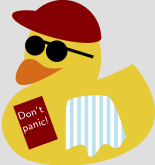
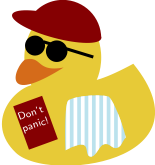
testing background colour for readme

diff --git a/README.md b/README.md
@@ -42,6 +42,7 @@ In case you would like to share some of your ducks with the community, I would b
 
 ### Duckifications
 
+<div style="background-color: #e6e6e6">
 <a href="./duckpond/Arthur.tex"><img src="./duckpond/Arthur.png" alt="Arthur Quack" title="Arthur Quack" height="64"></a>
 <a href="./duckpond/Ceasar.tex"><img src="./duckpond/Ceasar.png" alt="Gajus Quackus Ceasar" title="Gajus Quackus Ceasar" height="64"></a>
 <a href="./duckpond/Hilbert.tex"><img src="./duckpond/Hilbert.png" alt="Hilbert Duck" title="Hilbert Duck" height="64"></a>
@@ -59,22 +60,28 @@ In case you would like to share some of your ducks with the community, I would b
 <a href="./duckpond/StarDucks.tex"><img src="./duckpond/StarDucks.png" alt="Star Ducks" title="Star Ducks" height="64"></a>
 <a href="./duckpond/DuckWho.svg"><img src="./duckpond/DuckWho.png" alt="Duck Who" title="Duck Who" height="64"></a>
 <a href="./duckpond/Phantom.svg"><img src="./duckpond/Phantom.png" alt="Phantom of the duckpond" title="Phantom of the duckpond" height="64"></a>
+</div>
 
 ### Ducks in Art
 
+<div style="background-color: #e6e6e6">
 <a href="./duckpond/MonaDuck.svg"><img src="./duckpond/MonaDuck.png" alt="Mona Duck" title="Mona Duck" height="64"></a>
 <a href="./duckpond/GirlWithPearlEarring.svg"><img src="./duckpond/GirlWithPearlEarring.png" alt="Duck with pearl earring" title="Duck with pearl earring" height="64"></a>
 <a href="./duckpond/PopArt.svg"><img src="./duckpond/PopArt.png" alt="Pop ArtArt" title="Pop Art" height="64"></a>
+</div>
 
 ### TeX.SE users
 
+<div style="background-color: #e6e6e6">
 <a href="./duckpond/CarLaTeX.tex"><img src="./duckpond/CarLaTeX.png" alt="CarLaTeX" title="CarLaTeX" height="64"></a>
 <a href="./duckpond/Paulo.tex"><img src="./duckpond/Paulo.png" alt="Paulo" title="Paulo" height="64"></a>
 <a href="./duckpond/Manooooh.tex"><img src="./duckpond/Manooooh.png" alt="Manooooh" title="Manooooh" height="64"></a>
 <a href="./duckpond/Samcarter.tex"><img src="./duckpond/Samcarter.png" alt="samcarter" title="samcarter" height="64"></a>
+</div>
 
 ### Professions and Occupation
 
+<div style="background-color: #e6e6e6">
 <a href="./duckpond/AirDuck.tex"><img src="./duckpond/AirDuck.png" alt="AirDuck" title="AirDuck" height="64"></a>
 <a href="./duckpond/AstroDuck.tex"><img src="./duckpond/AstroDuck.png" alt="Astro Duck" title="Astro Duck" height="64"></a>
 <a href="./duckpond/Chef.tex"><img src="./duckpond/Chef.png" alt="Chef Duck" title="Chef Duck" height="64"></a>
@@ -86,9 +93,11 @@ In case you would like to share some of your ducks with the community, I would b
 <a href="./duckpond/Ghost.tex"><img src="./duckpond/Ghost.png" alt="Ghost  Duck" title="Ghost  Duck" height="64"></a>
 <a href="./duckpond/Harlequin.tex"><img src="./duckpond/Harlequin.png" alt="Harlequin Duck" title="Harlequin Duck" height="64"></a>
 <a href="./duckpond/Jailbird.tex"><img src="./duckpond/Jailbird.png" alt="Jail Bird" title="Jail Bird" height="64"></a>
+</div>
 
 ### Animals and Beings
 
+<div style="background-color: #e6e6e6">
 <a href="./duckpond/AraraDuck.tex"><img src="./duckpond/AraraDuck.png" alt="Arara Duck" title="Arara Duck" height="64"></a>
 <a href="./duckpond/BeeDuck.tex"><img src="./duckpond/BeeDuck.png" alt="Bee Duck" title="Bee Duck" height="64"></a>
 <a href="./duckpond/Bunny.tex"><img src="./duckpond/Bunny.png" alt="Bunny Duck" title="Bunny Duck" height="64"></a>
@@ -96,9 +105,11 @@ In case you would like to share some of your ducks with the community, I would b
 <a href="./duckpond/Horse.tex"><img src="./duckpond/Horse.png" alt="Horse Duck" title="Horse Duck" height="64"></a>
 <a href="./duckpond/Pig.tex"><img src="./duckpond/Pig.png" alt="Pig Duck" title="Pig Duck" height="64"></a>
 <a href="./duckpond/Sheep.tex"><img src="./duckpond/Sheep.png" alt="Sheep Duck" title="Sheep Duck" height="64"></a>
+</div>
 
 ### More ducks
 
+<div style="background-color: #e6e6e6">
 <a href="./duckpond/3Dduck.tex"><img src="./duckpond/3Dduck.png" alt="3D Duck" title="" height="64"></a>
 <a href="./duckpond/Churyumov-Gerasimenko.tex"><img src="./duckpond/Churyumov-Gerasimenko.png" alt="67P/Churyumov–Gerasimenko" title="67P/Churyumov–Gerasimenko" height="64"></a>
 <a href="./duckpond/Vampire.tex"><img src="./duckpond/Vampire.png" alt="Vampire Duck" title="Vampire Duck" height="64"></a>
@@ -110,7 +121,7 @@ In case you would like to share some of your ducks with the community, I would b
 <a href="./duckpond/Chess.tex"><img src="./duckpond/Chess.png" alt="Chess" title="Chess" height="256"></a>
 
 <a href="./duckpond/Pacduck.tex"><img src="./duckpond/Pacduck.gif" alt="Pacduck" title="Pacduck" height="64"></a>
-
+</div>
 
 ## TikZducks movies
 
